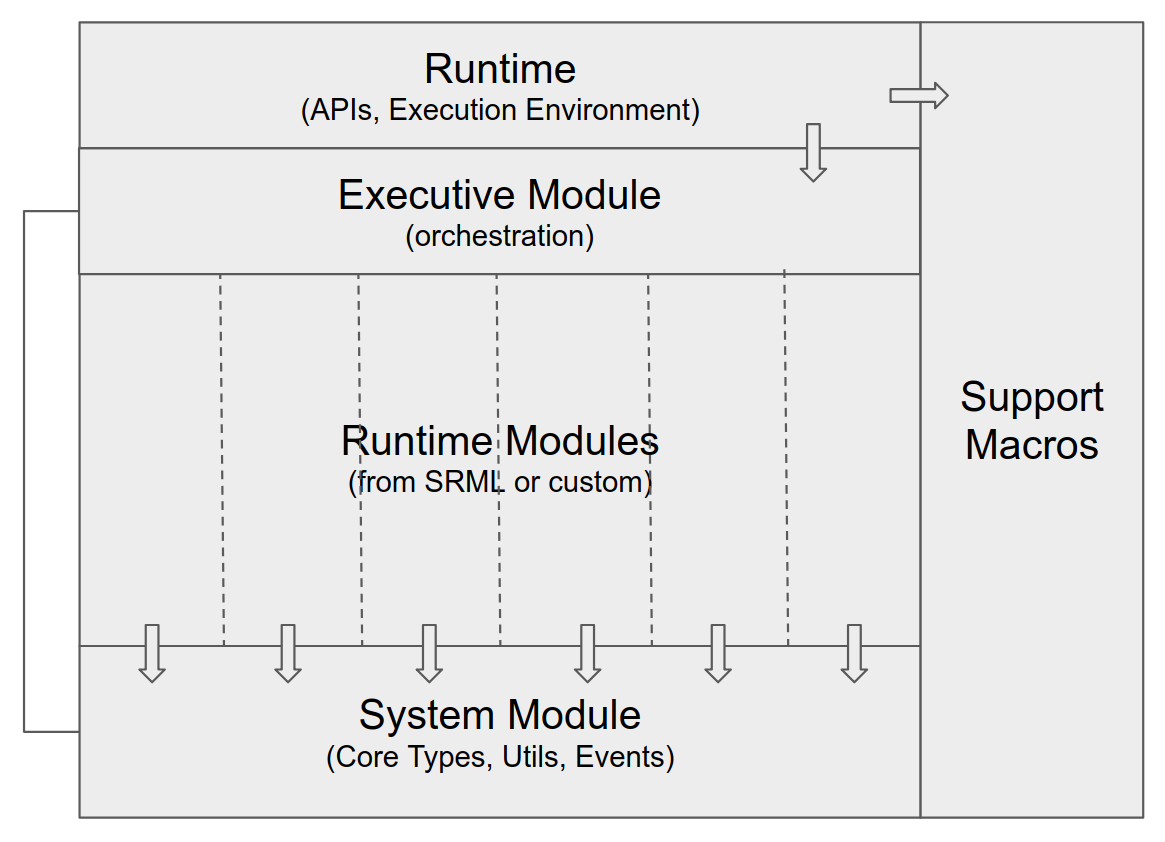
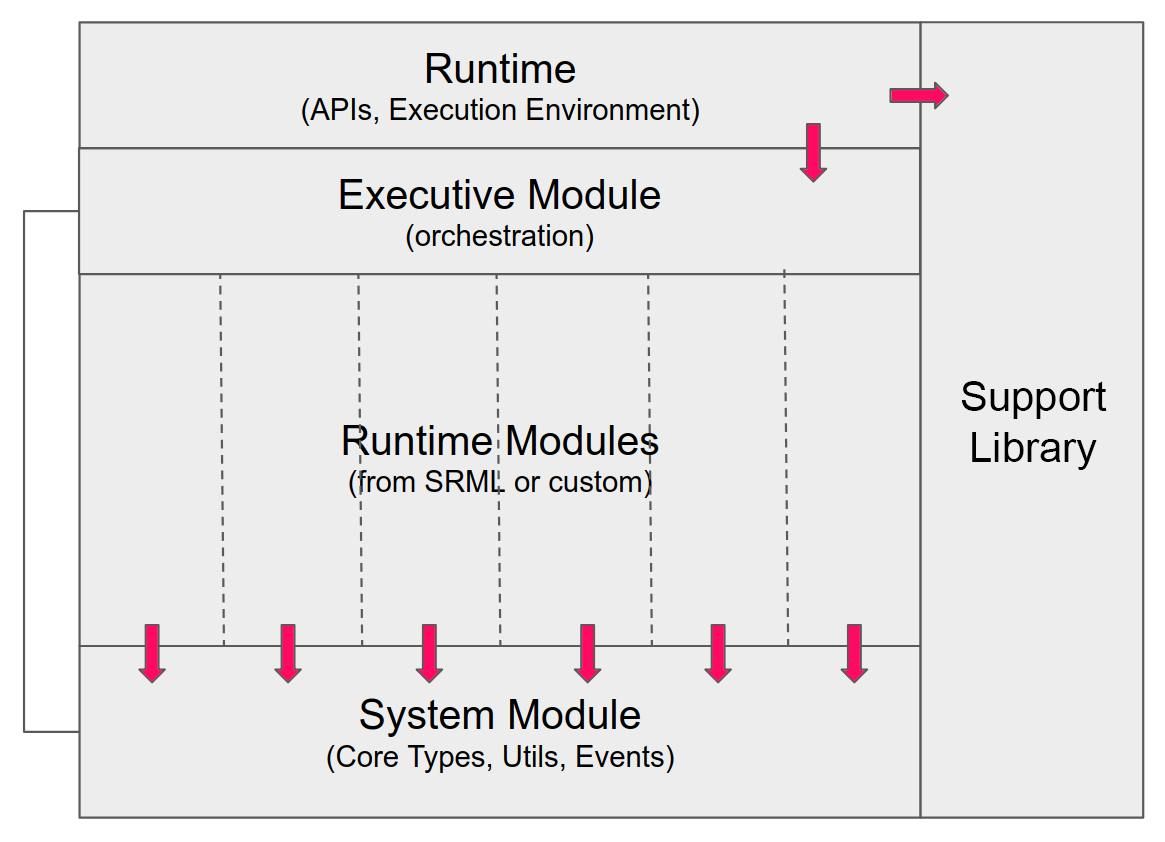
SRML Conceptual Doc (#294)
* SRML Conceptual Doc

* Fix URL

* Update docs/conceptual/runtime/srml.md

* Update docs/conceptual/runtime/srml.md

diff --git a/docs/conceptual/runtime/srml.md b/docs/conceptual/runtime/srml.md
@@ -2,8 +2,310 @@
 title: Substrate Runtime Module Library
 ---
 
-* What is the SRML?
+The Substrate Runtime Module Library (SRML) is a collection of prebuilt runtime
+modules and support libraries which simplify development of a Substrate runtime.
 
-* High level table of SRML (see Steve)
+## Overview
 
-* Link off to the individual documentation from rustdocs.
+The following diagram shows the architectural overview of the SRML and its
+support libraries:
+
+![srml-arch](/docs/assets/srml-arch.png)
+
+### Runtime Modules
+
+The Substrate runtime is composed of several smaller components called runtime
+modules. A runtime module contains a set of types, storage items, and functions
+that define a set of features and functionality for a runtime.
+
+### System Module
+
+The [System module](/rustdocs/master/srml_system/index.html) provides low-level
+types, storage, and functions for your blockchain. All other modules depend on
+the System module as the basis of your Substrate runtime.
+
+The System module defines all the core types for the Substrate runtime, such as:
+
+* Origin
+* Block Number
+* Account Id
+* Hash
+* Header
+* Version
+* etc...
+
+It also has a number of system critical storage items, such as:
+
+* Account Nonce
+* Block Hash
+* Block Number
+* Events
+* etc...
+
+Finally, it defines a number of low level functions which can access your
+blockchain storage, verify the origin of an extrinsic, and more.
+
+### Executive Module
+
+The [Executive module](/rustdocs/master/srml_executive/index.html) acts as the
+orchestration layer for the runtime. It dispatches incoming extrinsic calls to
+the respective modules in the runtime.
+
+### Support Library
+
+The [SRML support library](/rustdocs/master/srml_support/index.html) is a
+collection of Rust macros, types, traits, and functions that simplify the
+development of Substrate runtime modules.
+
+The support macros expand at compile time to generate code which is used
+by the runtime and reduce boilerplate code for the most common components of a
+module.
+
+### Runtime
+
+The runtime library brings together all these components and modules. It defines
+which modules are included with your runtime and configures them to work
+together to compose your final runtime. When calls are made to your runtime, it
+uses the Executive module to dispatch those calls to the individual runtime
+modules.
+
+## SRML Modules
+
+The SRML contains a set of prebuilt runtime modules that can be used in your
+Substrate chain.
+
+### Assets
+
+The Assets module is a simple, secure module for dealing with fungible assets.
+
+* [Docs](/rustdocs/srml_assets/index.html)
+* [Source](https://github.com/paritytech/substrate/blob/master/srml/assets/src/lib.rs)
+
+### Aura
+
+The Aura module extends Aura consensus by managing offline reporting.
+
+* [Docs](/rustdocs/srml_aura/index.html)
+* [Source](https://github.com/paritytech/substrate/blob/master/srml/aura/src/lib.rs)
+
+### Authority Discovery
+
+The Authority Discovery module is used by `core/authority-discovery` to retrieve
+the current set of authorities, learn its own authority id, as well as to sign
+and verify messages to and from other authorities.
+
+* [Docs](/rustdocs/srml_authority_discovery/index.html)
+* [Source](https://github.com/paritytech/substrate/blob/master/srml/authority-discovery/src/lib.rs)
+
+### Authorship
+
+The Authorship module tracks the current author of the block and recent uncles.
+
+* [Docs](/rustdocs/srml_authorship/index.html)
+* [Source](https://github.com/paritytech/substrate/blob/master/srml/authorship/src/lib.rs)
+
+### BABE
+
+The BABE module extends BABE consensus by collecting on-chain randomness from
+VRF outputs and managing epoch transitions.
+
+* [Docs](/rustdocs/srml_babe/index.html)
+* [Source](https://github.com/paritytech/substrate/blob/master/srml/babe/src/lib.rs)
+
+### Balances
+
+The Balances module provides functionality for handling accounts and balances.
+
+* [Docs](/rustdocs/srml_balances/index.html)
+* [Source](https://github.com/paritytech/substrate/blob/master/srml/balances/src/lib.rs)
+
+### Collective
+
+The Collective module allows a set of account IDs to make their collective
+feelings known through dispatched calls from specialized origins.
+
+* [Docs](/rustdocs/srml_collective/index.html)
+* [Source](https://github.com/paritytech/substrate/blob/master/srml/collective/src/lib.rs)
+
+### Contracts
+
+The Contracts module provides functionality for the runtime to deploy and
+execute WebAssembly smart-contracts.
+
+* [Docs](/rustdocs/srml_contracts/index.html)
+* [Source](https://github.com/paritytech/substrate/blob/master/srml/contracts/src/lib.rs)
+
+### Democracy
+
+The Democracy module provides a democratic system that handles administration of
+general stakeholder voting.
+
+* [Docs](/rustdocs/srml_democracy/index.html)
+* [Source](https://github.com/paritytech/substrate/blob/master/srml/democracy/src/lib.rs)
+
+### Elections Phragmen
+
+The Phragmen Elections module is an election module based on [sequential
+phragmen](https://research.web3.foundation/en/latest/polkadot/NPoS/4.%20Sequential%20Phragm%C3%A9n%E2%80%99s%20method/).
+
+* [Docs](/rustdocs/srml_elections_phragmen/index.html)
+* [Source](https://github.com/paritytech/substrate/blob/master/srml/elections-phragmen/src/lib.rs)
+
+### Elections
+
+The Elections module is an election module for stake-weighted membership
+selection of a collective.
+
+* [Docs](/rustdocs/srml_elections/index.html)
+* [Source](https://github.com/paritytech/substrate/blob/master/srml/elections/src/lib.rs)
+
+### Example
+
+The Example module is a simple example of a runtime module demonstrating
+concepts, APIs and structures common to most runtime modules.
+
+* [Docs](/rustdocs/srml_example/index.html)
+* [Source](https://github.com/paritytech/substrate/blob/master/srml/example/src/lib.rs)
+
+### Finality Tracker
+
+The Finality Tracker module tracks the last finalized block, as perceived by
+block authors.
+
+* [Docs](/rustdocs/srml_finality_tracker/index.html)
+* [Source](https://github.com/paritytech/substrate/blob/master/srml/finality-tracker/src/lib.rs)
+
+### Generic Asset
+
+The Generic Asset module provides functionality for handling accounts and asset
+balances.
+
+* [Docs](/rustdocs/srml_generic_asset/index.html)
+* [Source](https://github.com/paritytech/substrate/blob/master/srml/generic-asset/src/lib.rs)
+
+### GRANDPA
+
+The GRANDPA module extends GRANDPA consensus by managing the GRANDPA authority
+set ready for the native code.
+
+* [Docs](/rustdocs/srml_grandpa/index.html)
+* [Source](https://github.com/paritytech/substrate/blob/master/srml/grandpa/src/lib.rs)
+
+### I'm Online
+
+The I'm Online module allows validators to gossip a heartbeat transaction with
+each new session to signal that the node is online in the current era.
+
+* [Docs](/rustdocs/srml_im_online/index.html)
+* [Source](https://github.com/paritytech/substrate/blob/master/srml/im-online/src/lib.rs)
+
+### Indices
+
+The Indices module allocates indices for newly created accounts. An index is a
+short form of an address.
+
+* [Docs](/rustdocs/srml_indices/index.html)
+* [Source](https://github.com/paritytech/substrate/blob/master/srml/indices/src/lib.rs)
+
+### Membership
+
+The Membership module allows control of membership of a set of `AccountId`s,
+useful for managing membership of a collective.
+
+* [Docs](/rustdocs/srml_membership/index.html)
+* [Source](https://github.com/paritytech/substrate/blob/master/srml/membership/src/lib.rs)
+
+### Offences
+
+The Offences module tracks reported offences.
+
+* [Docs](/rustdocs/srml_offences/index.html)
+* [Source](https://github.com/paritytech/substrate/blob/master/srml/offences/src/lib.rs)
+
+### Randomness Collective Flip
+
+The Randomness Collective Flip module provides a `random` function that
+generates low-influence random values based on the block hashes from the
+previous `81` blocks.
+
+* [Docs](/rustdocs/srml_randomness_collective_flip/index.html)
+* [Source](https://github.com/paritytech/substrate/blob/master/srml/randomness-collective-flip/src/lib.rs)
+
+### Scored Pool
+
+The Scored Pool module maintains a scored membership pool where the highest
+scoring entities are made members.
+
+* [Docs](/rustdocs/srml_scored_pool/index.html)
+* [Source](https://github.com/paritytech/substrate/blob/master/srml/scored-pool/src/lib.rs)
+
+### Session
+
+The Session module allows validators to manage their session keys, provides a
+function for changing the session length, and handles session rotation.
+
+* [Docs](/rustdocs/srml_session/index.html)
+* [Source](https://github.com/paritytech/substrate/blob/master/srml/session/src/lib.rs)
+
+### Staking
+
+The Staking module is used to manage funds at stake by network maintainers.
+
+* [Docs](/rustdocs/srml_staking/index.html)
+* [Source](https://github.com/paritytech/substrate/blob/master/srml/staking/src/lib.rs)
+
+### Sudo
+
+The Sudo module allows for a single account (called the "sudo key") to execute
+dispatchable functions that require a `Root` origin or designate a new account
+to replace them as the sudo key.
+
+* [Docs](/rustdocs/srml_sudo/index.html)
+* [Source](https://github.com/paritytech/substrate/blob/master/srml/sudo/src/lib.rs)
+
+### Timestamp
+
+The Timestamp module provides functionality to get and set the on-chain time.
+
+* [Docs](/rustdocs/srml_timestamp/index.html)
+* [Source](https://github.com/paritytech/substrate/blob/master/srml/timestamp/src/lib.rs)
+
+### Transaction Payment
+
+The Transaction Payment module provides the basic logic needed to pay the
+absolute minimum amount needed for a transaction to be included.
+
+* [Docs](/rustdocs/srml_transaction_payment/index.html)
+* [Source](https://github.com/paritytech/substrate/blob/master/srml/transaction-payment/src/lib.rs)
+
+### Treasury
+
+The Treasury module provides a "pot" of funds that can be managed by
+stakeholders in the system and a structure for making spending proposals from
+this pot.
+
+* [Docs](/rustdocs/srml_treasury/index.html)
+* [Source](https://github.com/paritytech/substrate/blob/master/srml/treasury/src/lib.rs)
+
+## Next Steps
+
+### Learn More
+
+- Learn how to [develop custom Substrate runtime
+  modules](development/module/index.md).
+
+### Examples
+
+- Follow a [tutorial to add a runtime module to your Substrate
+  runtime](tutorials/adding-a-module-to-your-runtime.md).
+
+### References
+
+- Visit the reference docs for the [System
+  module](/rustdocs/master/srml_system/index.html).
+
+- Visit the reference docs for the [Executive
+  module](/rustdocs/master/srml_executive/index.html).
+
+- Visit the reference docs for the [SRML support
+  library](https://substrate.dev/rustdocs/master/srml_support/index.html).
